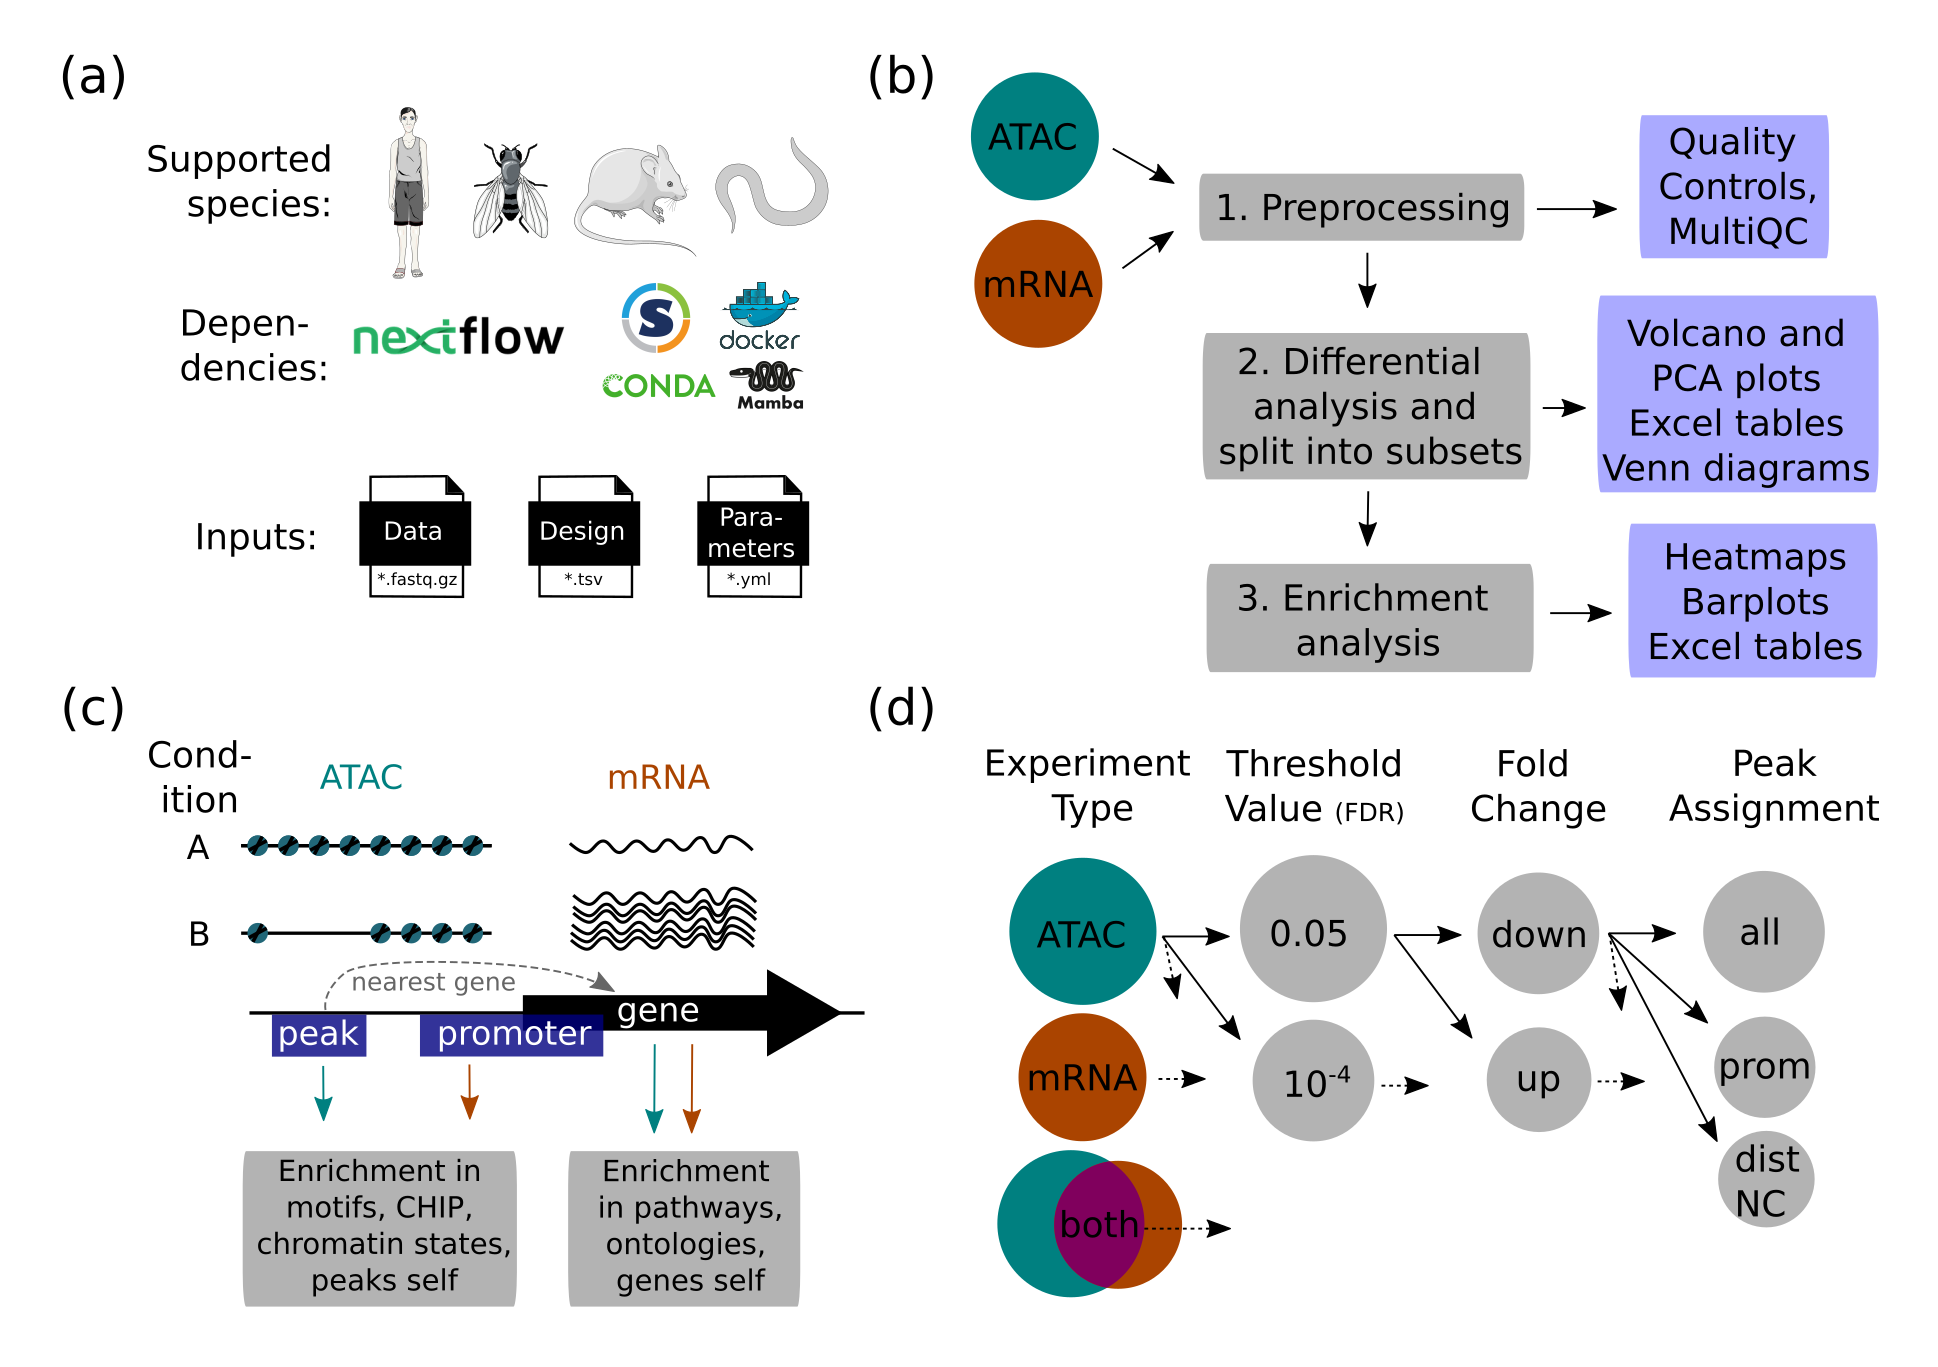
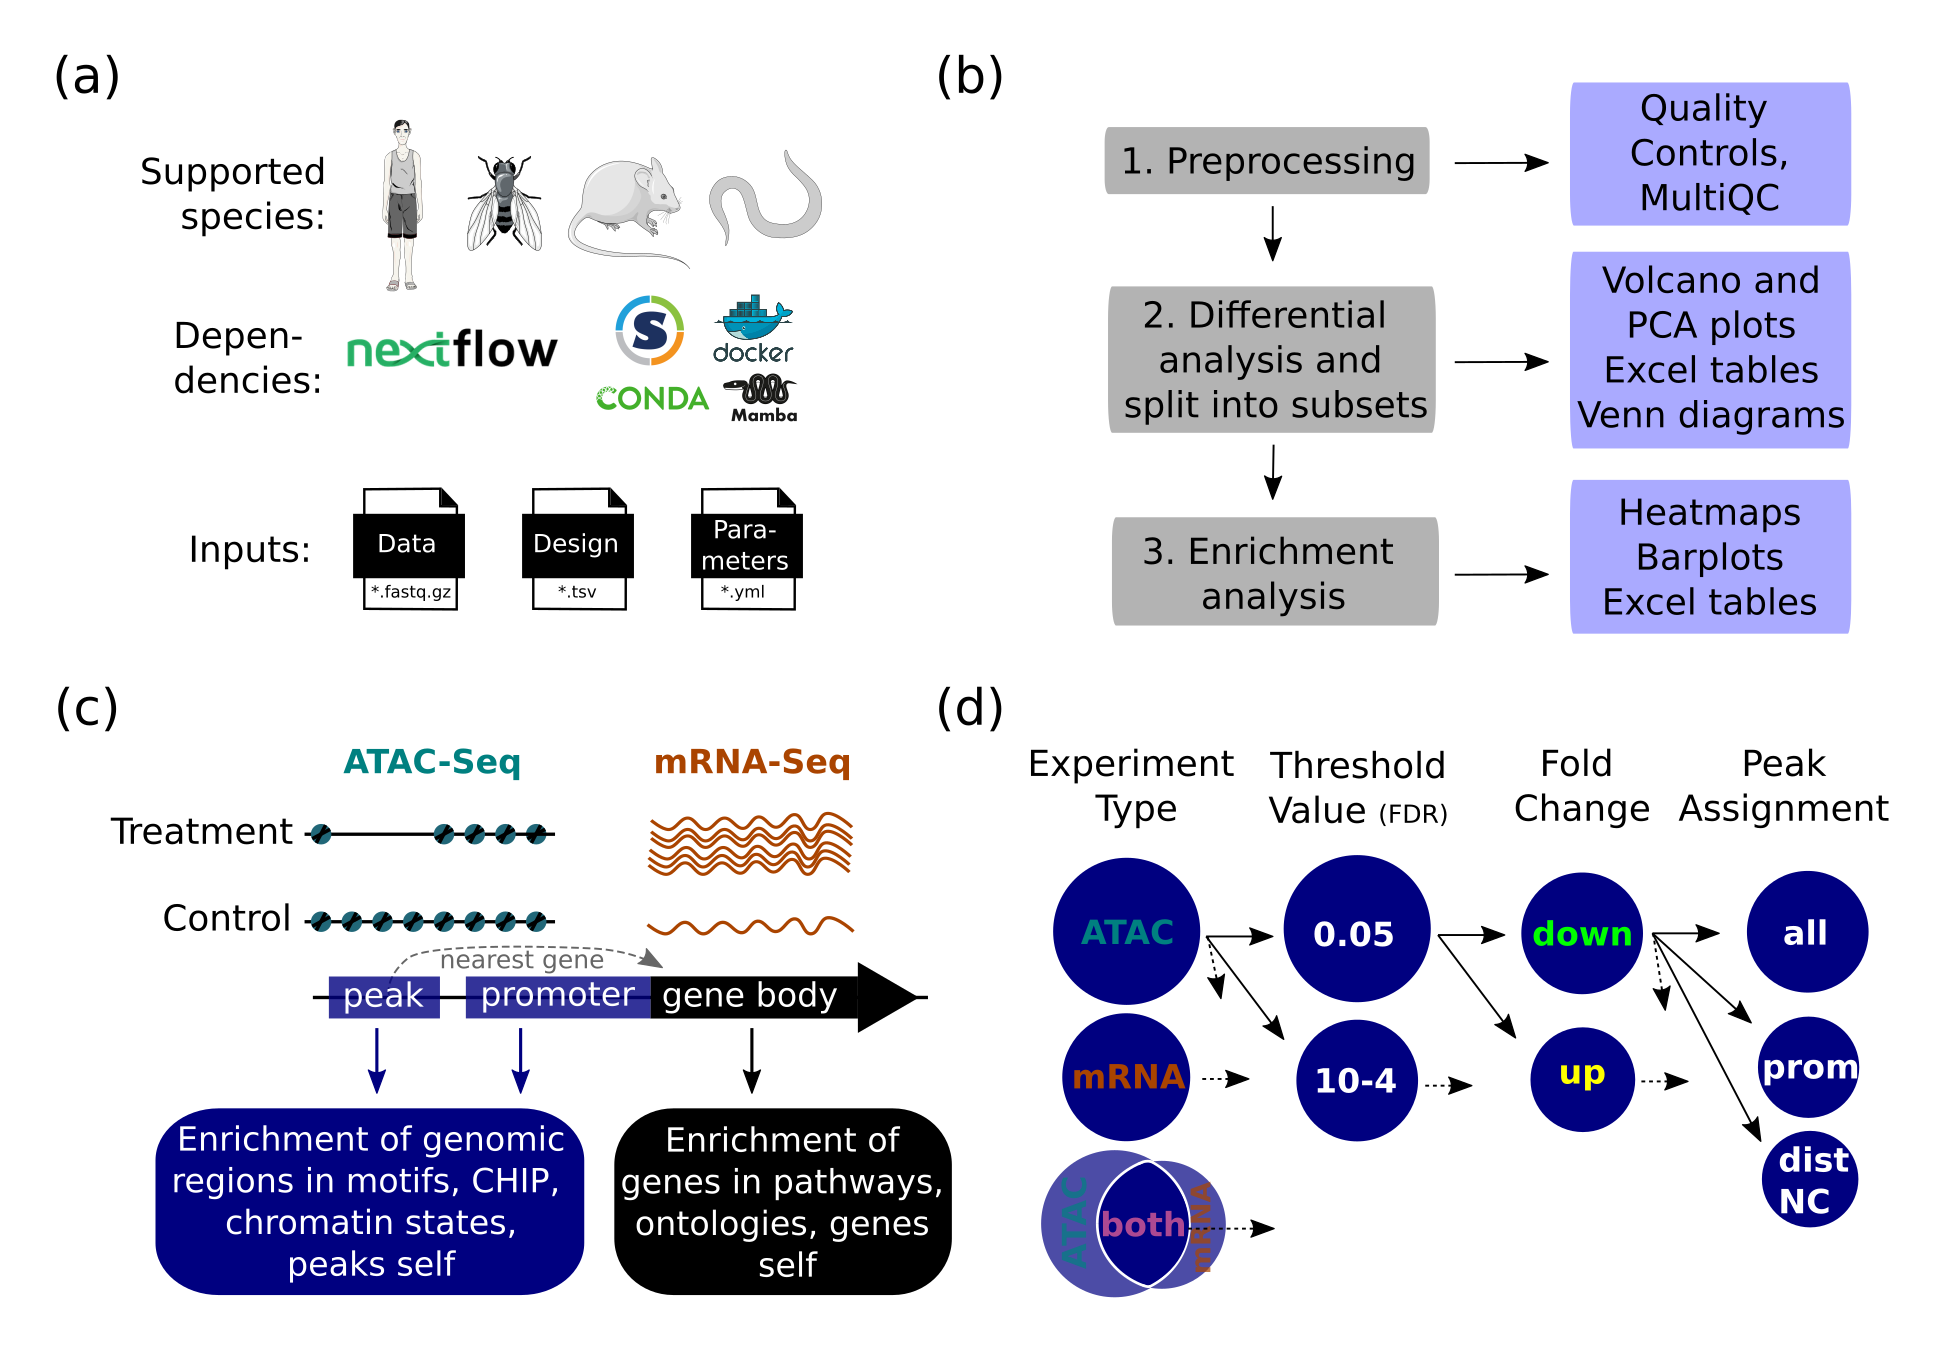
updating the figures and the docs

diff --git a/docs/6_Enrich/Enrichment.md b/docs/6_Enrich/Enrichment.md
@@ -120,7 +120,7 @@ Homver results tables are formatted in R to add the standardized columns necessa
 ### Description
 This process takes all overlap processes, estimates significance and format tables.  
 
-Hypergeometric minimum-likelihood two-sided p-values (`pval`) are obtained with a Fischer test in R. Two-sided Fischer tests are recommended for GO enrichment anlaysis since in most cases both enrichment and depletion can be biologically meaningful (see [reference](https://doi.org/10.1093/bioinformatics/btl633)).  
+Hypergeometric minimum-likelihood two-sided p-values (`pval`) are obtained with a two-sided Fisher's Exact Test in R. Two-sided tests are recommended for GO enrichment anlaysis since in most cases both enrichment and depletion can be biologically meaningful (see [reference](https://doi.org/10.1093/bioinformatics/btl633)).  
 Log2 odd ratios (L2OR) is the log2 of the test's estimate.
 Pvalues are then adjusted (`padj`) using Benjamini and Hochberg's [False Discovery Rate](https://doi.org/10.1093/bioinformatics/btl633).
 
@@ -131,7 +131,7 @@ Results are sorted by adjusted pvalues (`padj`, descending order) and overlap of
 Finally, each elements of the key (`ET`, `PA`, `FC`, `TV`, `COMP`) are split in a separate column in the table as well as the target (`tgt`).
 
 ### Parameters
-- **_params.motifs_test_type_**: The test to use for motif inputs. If 'Binomial' a two-sided binomial test is performed instead of the two-sided Fischer test. Options: 'binomial' or 'fischer' (any value). Default: 'binomial'.
+- **_params.motifs_test_type_**: The test to use for motif inputs. If 'Binomial' a two-sided binomial test is performed instead of the two-sided Fisher's Exact Test. Options: 'binomial' or 'fischer' (any value). Default: 'binomial'.
 
 ### Outputs
 - **Overlap tables**:

diff --git a/docs/6_Enrich/6_Enrich.md b/docs/6_Enrich/6_Enrich.md
@@ -14,7 +14,7 @@
 
 This section covers enrichment analysis for each Differential Analysis Subset ([DAS](/docs/5_DA/5_DA.md)).  
 
-For a given subset and term of interest (i.e. a pathway, a CHIP profile...), [enrichment](/docs/6_Enrich/Enrichment.md) is estimated by computing the overlap genes/genomic regions in the subset versus the genes/genomic regions not in the subset. Finally, a Fischer test is performed to determine enrichment or depletion of the term since in most cases both can be biologically meaningful (see [here](https://academic.oup.com/bioinformatics/article/23/4/401/181853?login=true)).  
+For a given subset and term of interest (i.e. a pathway, a CHIP profile...), [enrichment](/docs/6_Enrich/Enrichment.md) is estimated by computing the overlap genes/genomic regions in the subset versus the genes/genomic regions not in the subset. Finally, a two-sided Fisher's Exact Test is performed to determine enrichment or depletion of the term since in most cases both can be biologically meaningful (see [here](https://academic.oup.com/bioinformatics/article/23/4/401/181853?login=true)).  
 
 >**_Note_:** See part [References](/docs/2_Install/References.md) for details on how the external enrichment databases were preprocessed.  
 

diff --git a/docs/5_DA/Split.md b/docs/5_DA/Split.md
@@ -23,7 +23,7 @@
 Diagrams showing all filters used to split peaks into subsets.  
 Dotted black and grey arrows indicate respectively potential additional filters and not-showed filters. Abbreviations: FDR - False Discovery Rate, prom – promoter, distNC – distal non-coding.  
 
-<a href="url"> <img src="/docs/images/splitting_experiment_type.png" width="650" /> </a>  
+<a href="url"> <img src="/docs/images/splitting.png" width="650" /> </a>  
 Diagrams illustrating the Experiment type filter.  
 
 ### Description
